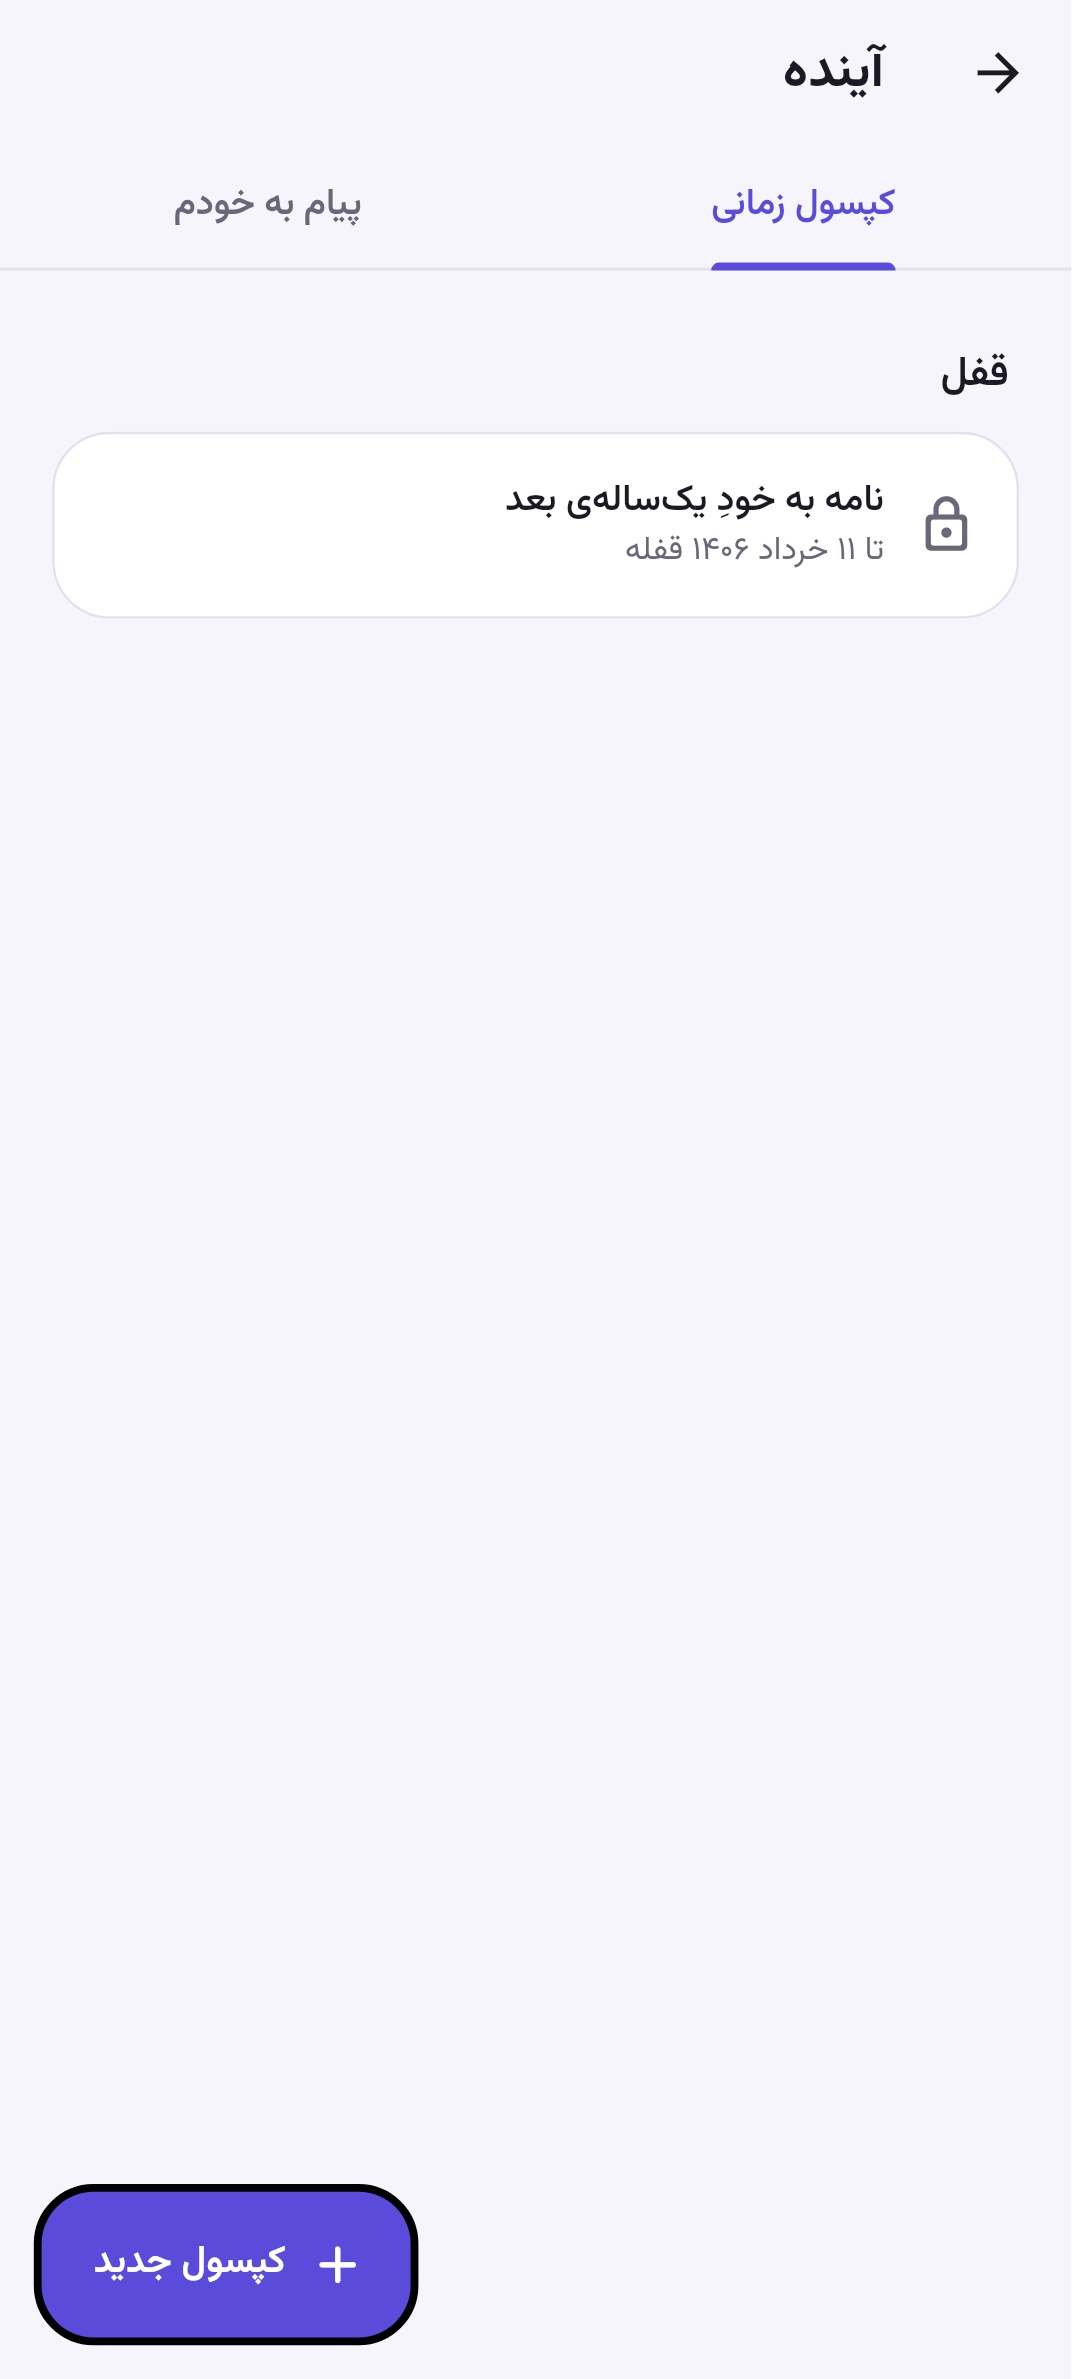
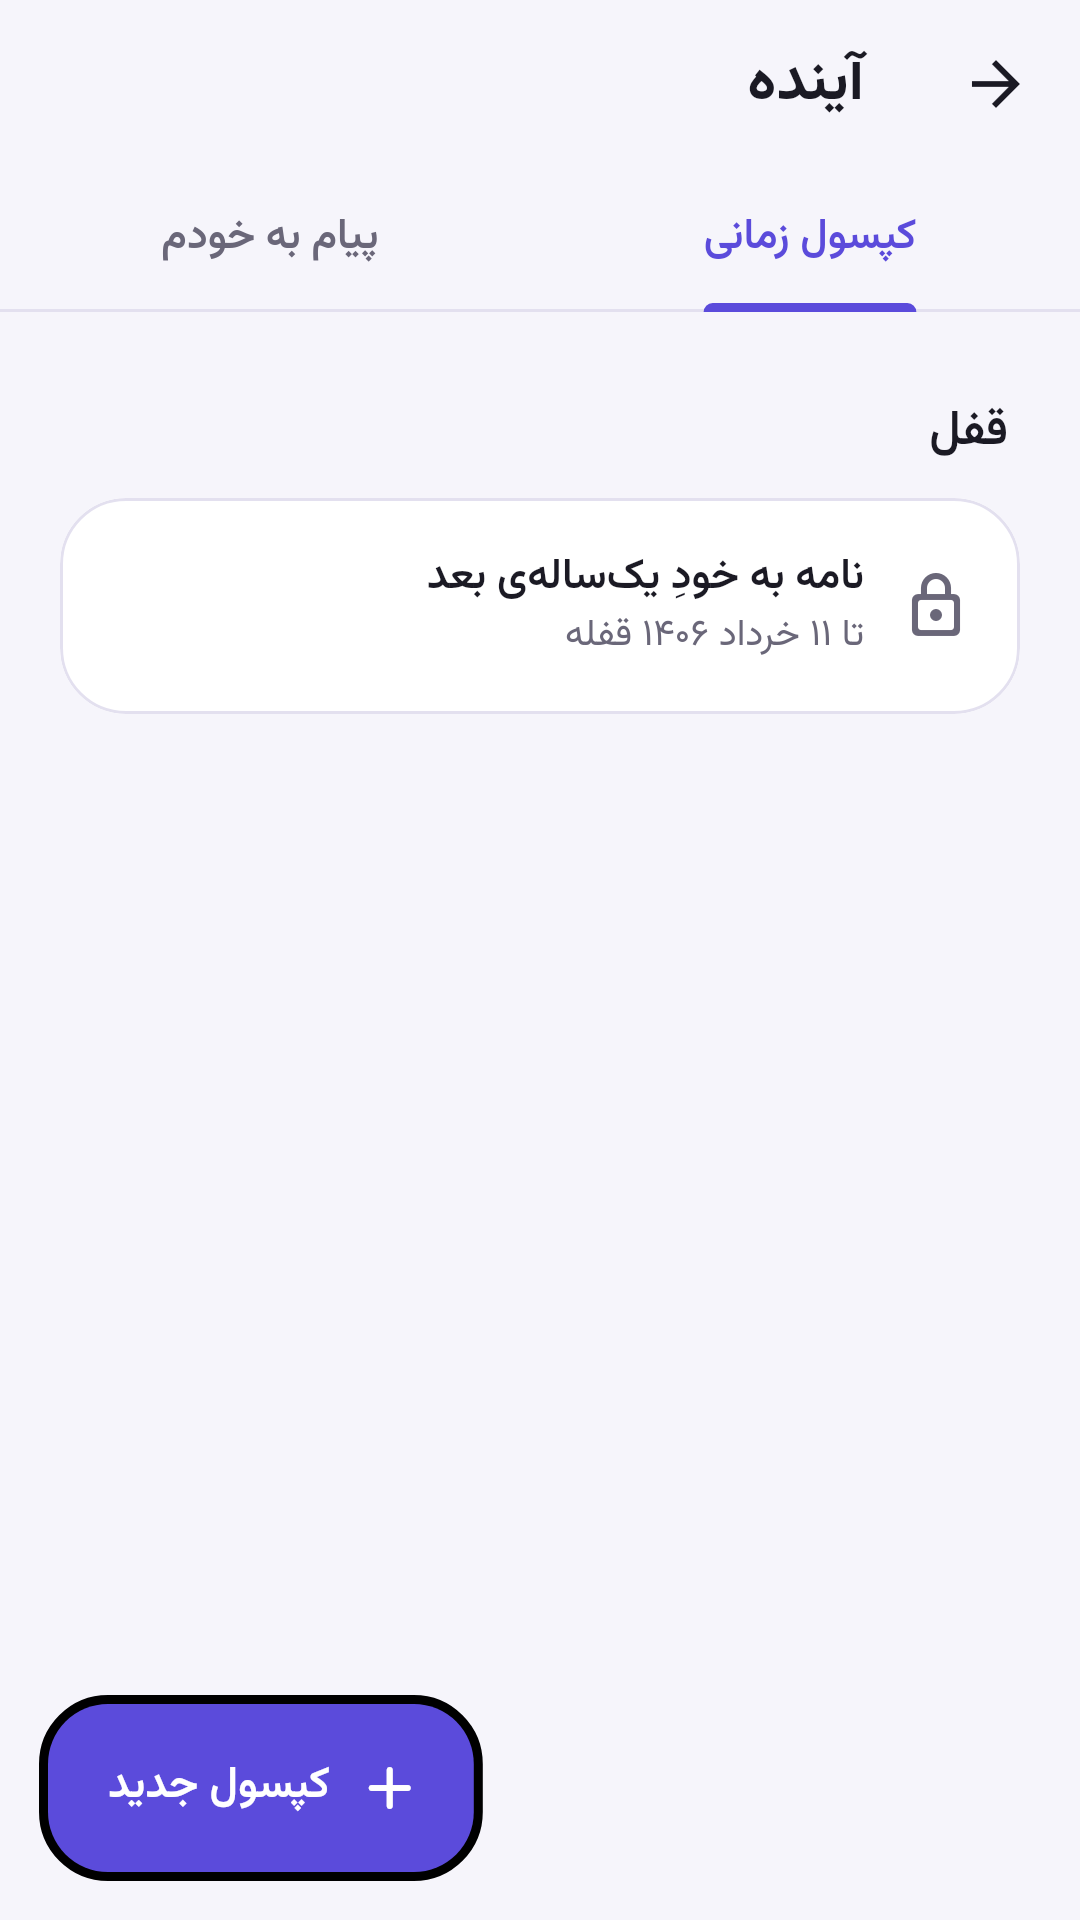
Store screenshots: 1080x1920 (9:16, under 3000 px) for the market panels
Claude-Session: https://claude.ai/code/session_01BB7qb9wvzwSuojfatziWR9

diff --git a/test/screenshots_test.dart b/test/screenshots_test.dart
@@ -39,19 +39,34 @@ void main() {
     final out = Directory('store/assets/screenshots')..createSync(recursive: true);
     final key = GlobalKey();
     Future<void> shot(String name) async {
+      FocusManager.instance.primaryFocus?.unfocus();
       await settle(tester, rounds: 8);
       final boundary = key.currentContext!.findRenderObject()! as RenderRepaintBoundary;
       final bytes = await tester.runAsync(() async {
-        final img = await boundary.toImage(pixelRatio: 2.6);
+        final img = await boundary.toImage(pixelRatio: 3.0);
         final data = await img.toByteData(format: ui.ImageByteFormat.png);
         return data!.buffer.asUint8List();
       });
       File('${out.path}/$name.png').writeAsBytesSync(bytes!);
     }
 
+    // On a short screen the home list is lazy: scroll until the tile is built.
+    Future<void> reveal(Finder f) async {
+      final scroll = find.byType(Scrollable).first;
+      for (final dy in [-300.0, 300.0]) {
+        for (var i = 0; i < 40 && f.evaluate().isEmpty; i++) {
+          await tester.drag(scroll, Offset(0, dy));
+          await tester.pump();
+        }
+      }
+      await tester.ensureVisible(f.first);
+    }
+
     Future<void> show(TestEnv env) async {
-      tester.view.physicalSize = const Size(412, 915) * 2;
-      tester.view.devicePixelRatio = 2;
+      // No keyboard focus ring (the black outline around the + button).
+      FocusManager.instance.highlightStrategy = FocusHighlightStrategy.alwaysTouch;
+      tester.view.physicalSize = const Size(360, 640) * 3;
+      tester.view.devicePixelRatio = 3;
       await tester.pumpWidget(RepaintBoundary(key: key, child: LaterApp(controller: env.controller)));
       await settle(tester);
     }
@@ -107,21 +122,27 @@ void main() {
     await shot('03_roulette');
     tester.state<NavigatorState>(find.byType(Navigator).first).pop();
     await settle(tester);
-    await tester.ensureVisible(find.text(fa.shelfWishTitle).first);
+    await reveal(find.text(fa.shelfWishTitle));
     await settle(tester);
     await tester.tap(find.text(fa.shelfWishTitle).first);
     await settle(tester);
     await shot('04_wishlist');
     tester.state<NavigatorState>(find.byType(Navigator).first).pop();
     await settle(tester);
-    await tester.ensureVisible(find.text(fa.shelfFutureTitle).first);
+    await reveal(find.text(fa.shelfFutureTitle));
     await settle(tester);
     await tester.tap(find.text(fa.shelfFutureTitle).first);
     await settle(tester);
     await shot('05_future');
     tester.state<NavigatorState>(find.byType(Navigator).first).pop();
     await settle(tester);
+    for (var i = 0; i < 12; i++) {
+      await tester.drag(find.byType(Scrollable).first, const Offset(0, 400));
+      await tester.pump();
+    }
+    await settle(tester);
     await tester.tap(find.text(fa.dashInbox).first);
+    await settle(tester);
     await shot('06_inbox');
     tester.state<NavigatorState>(find.byType(Navigator).first).pop();
     await settle(tester);
